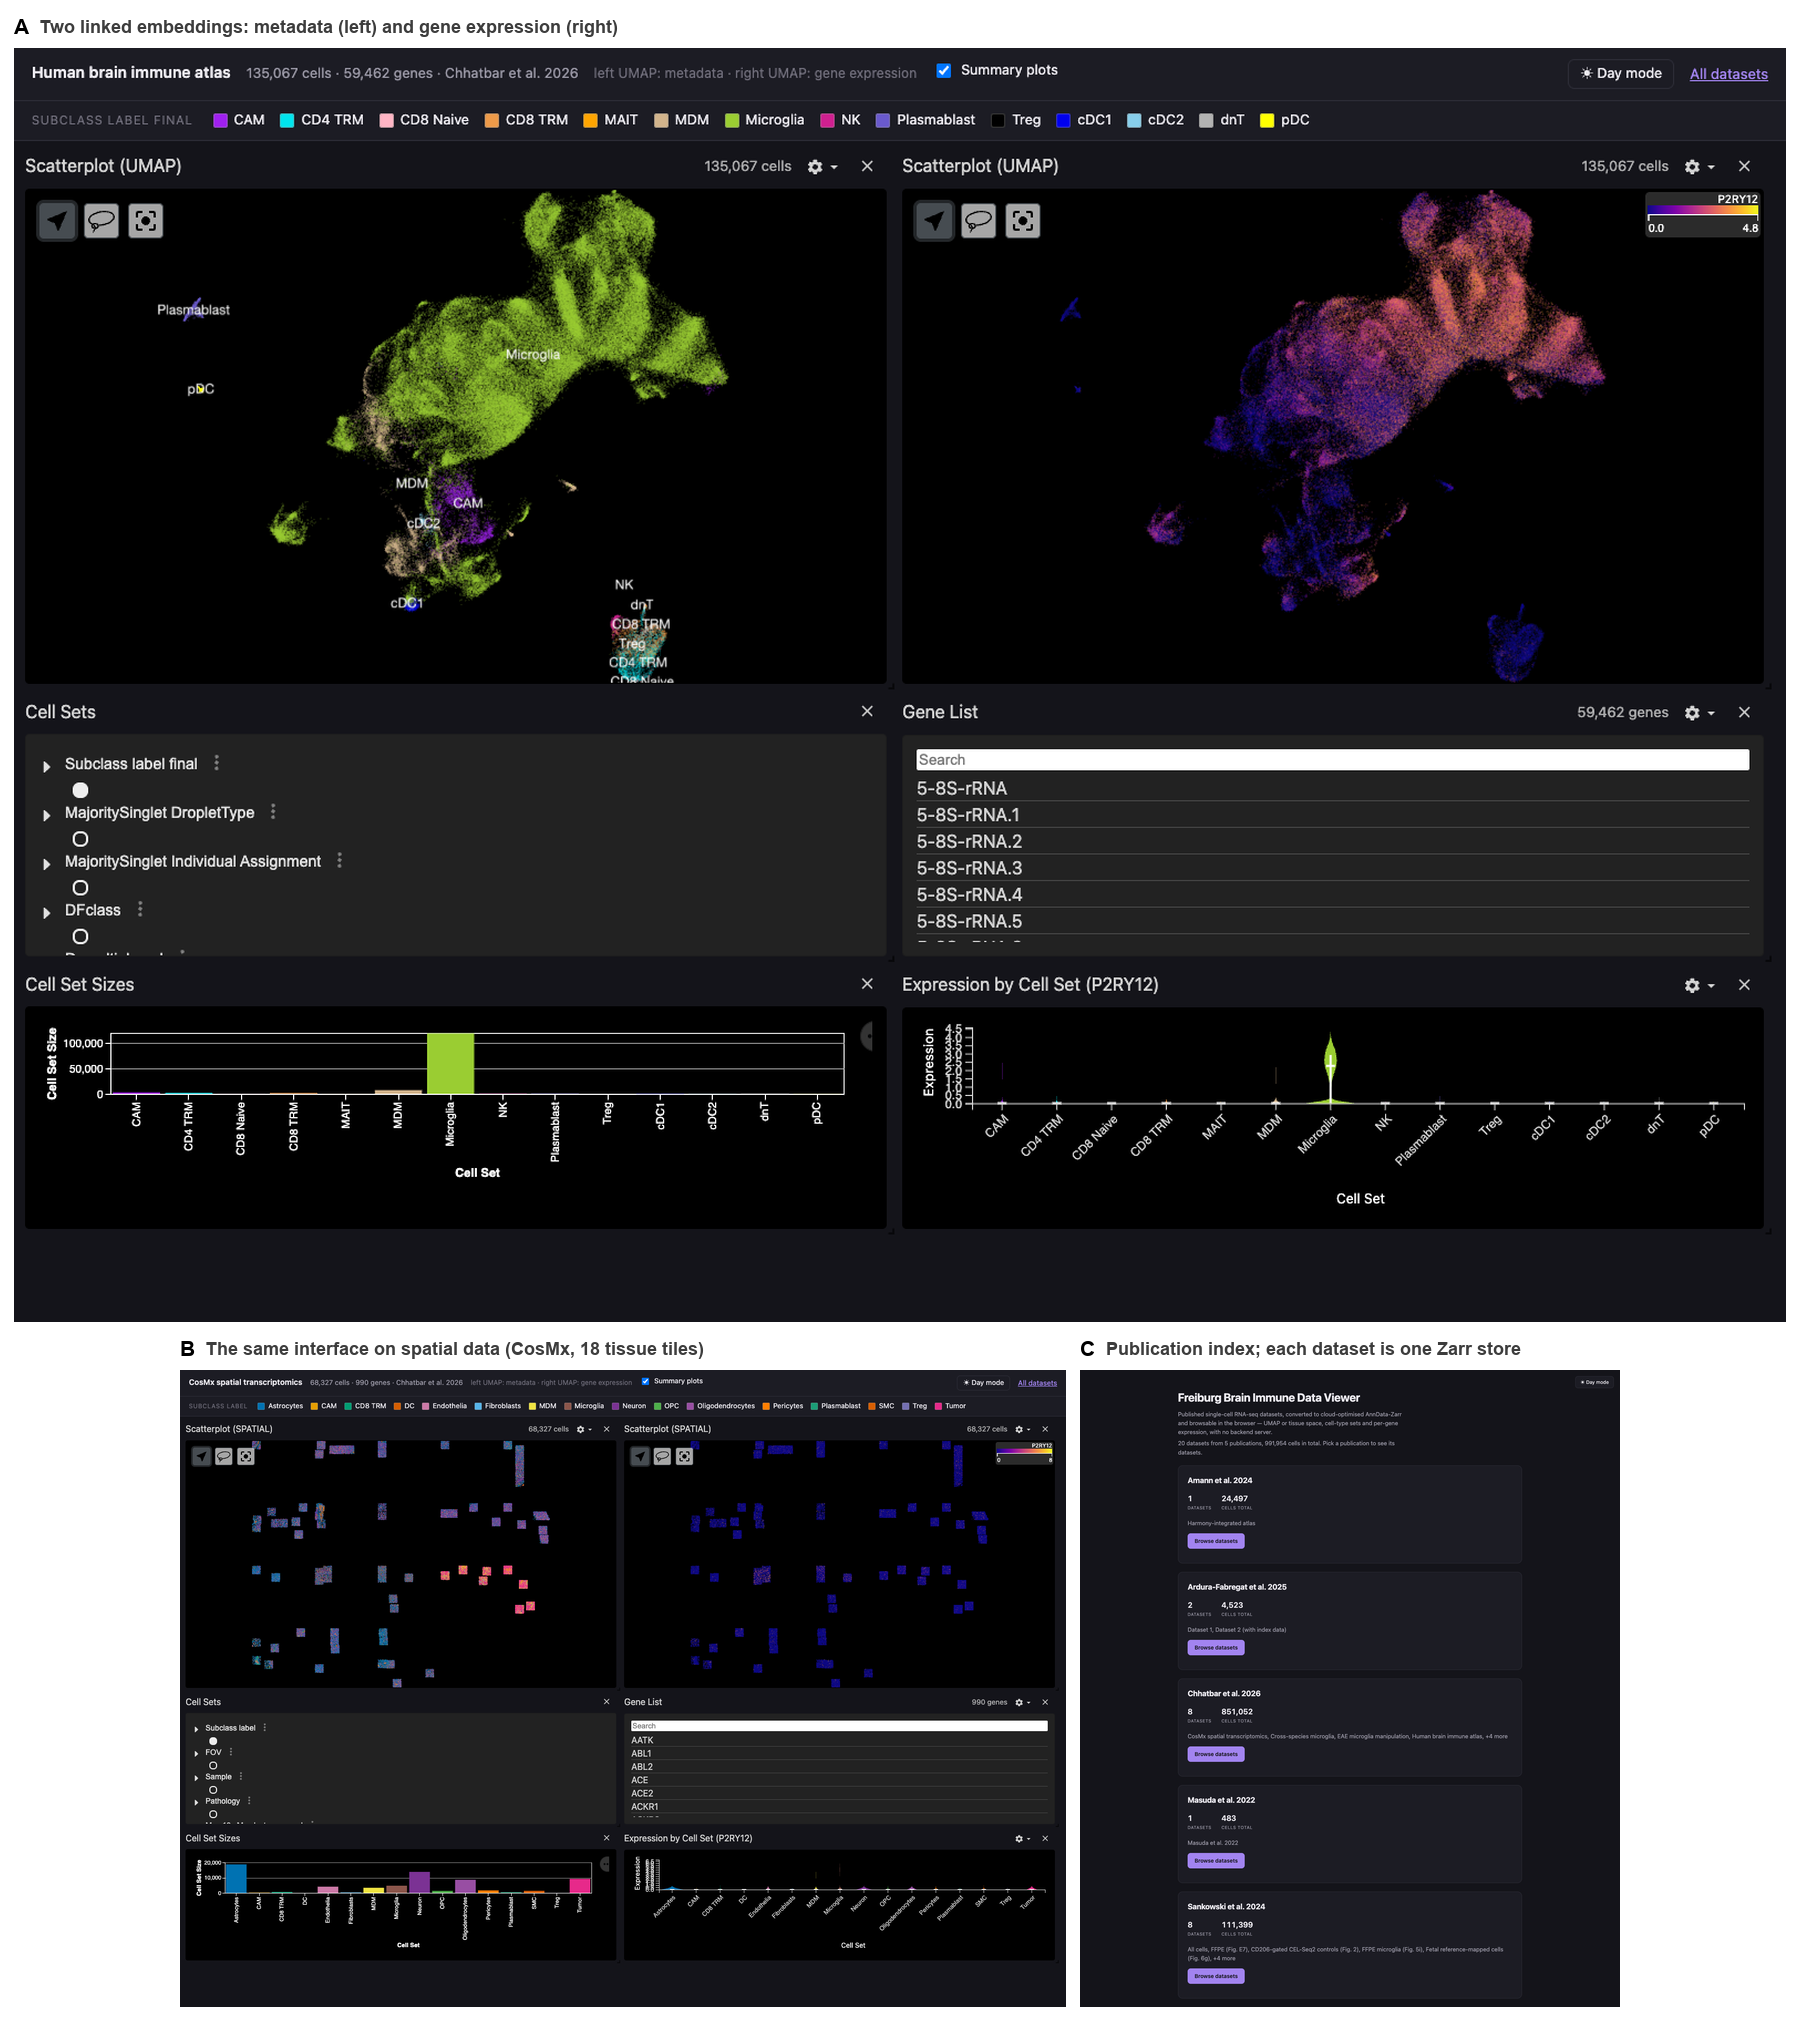
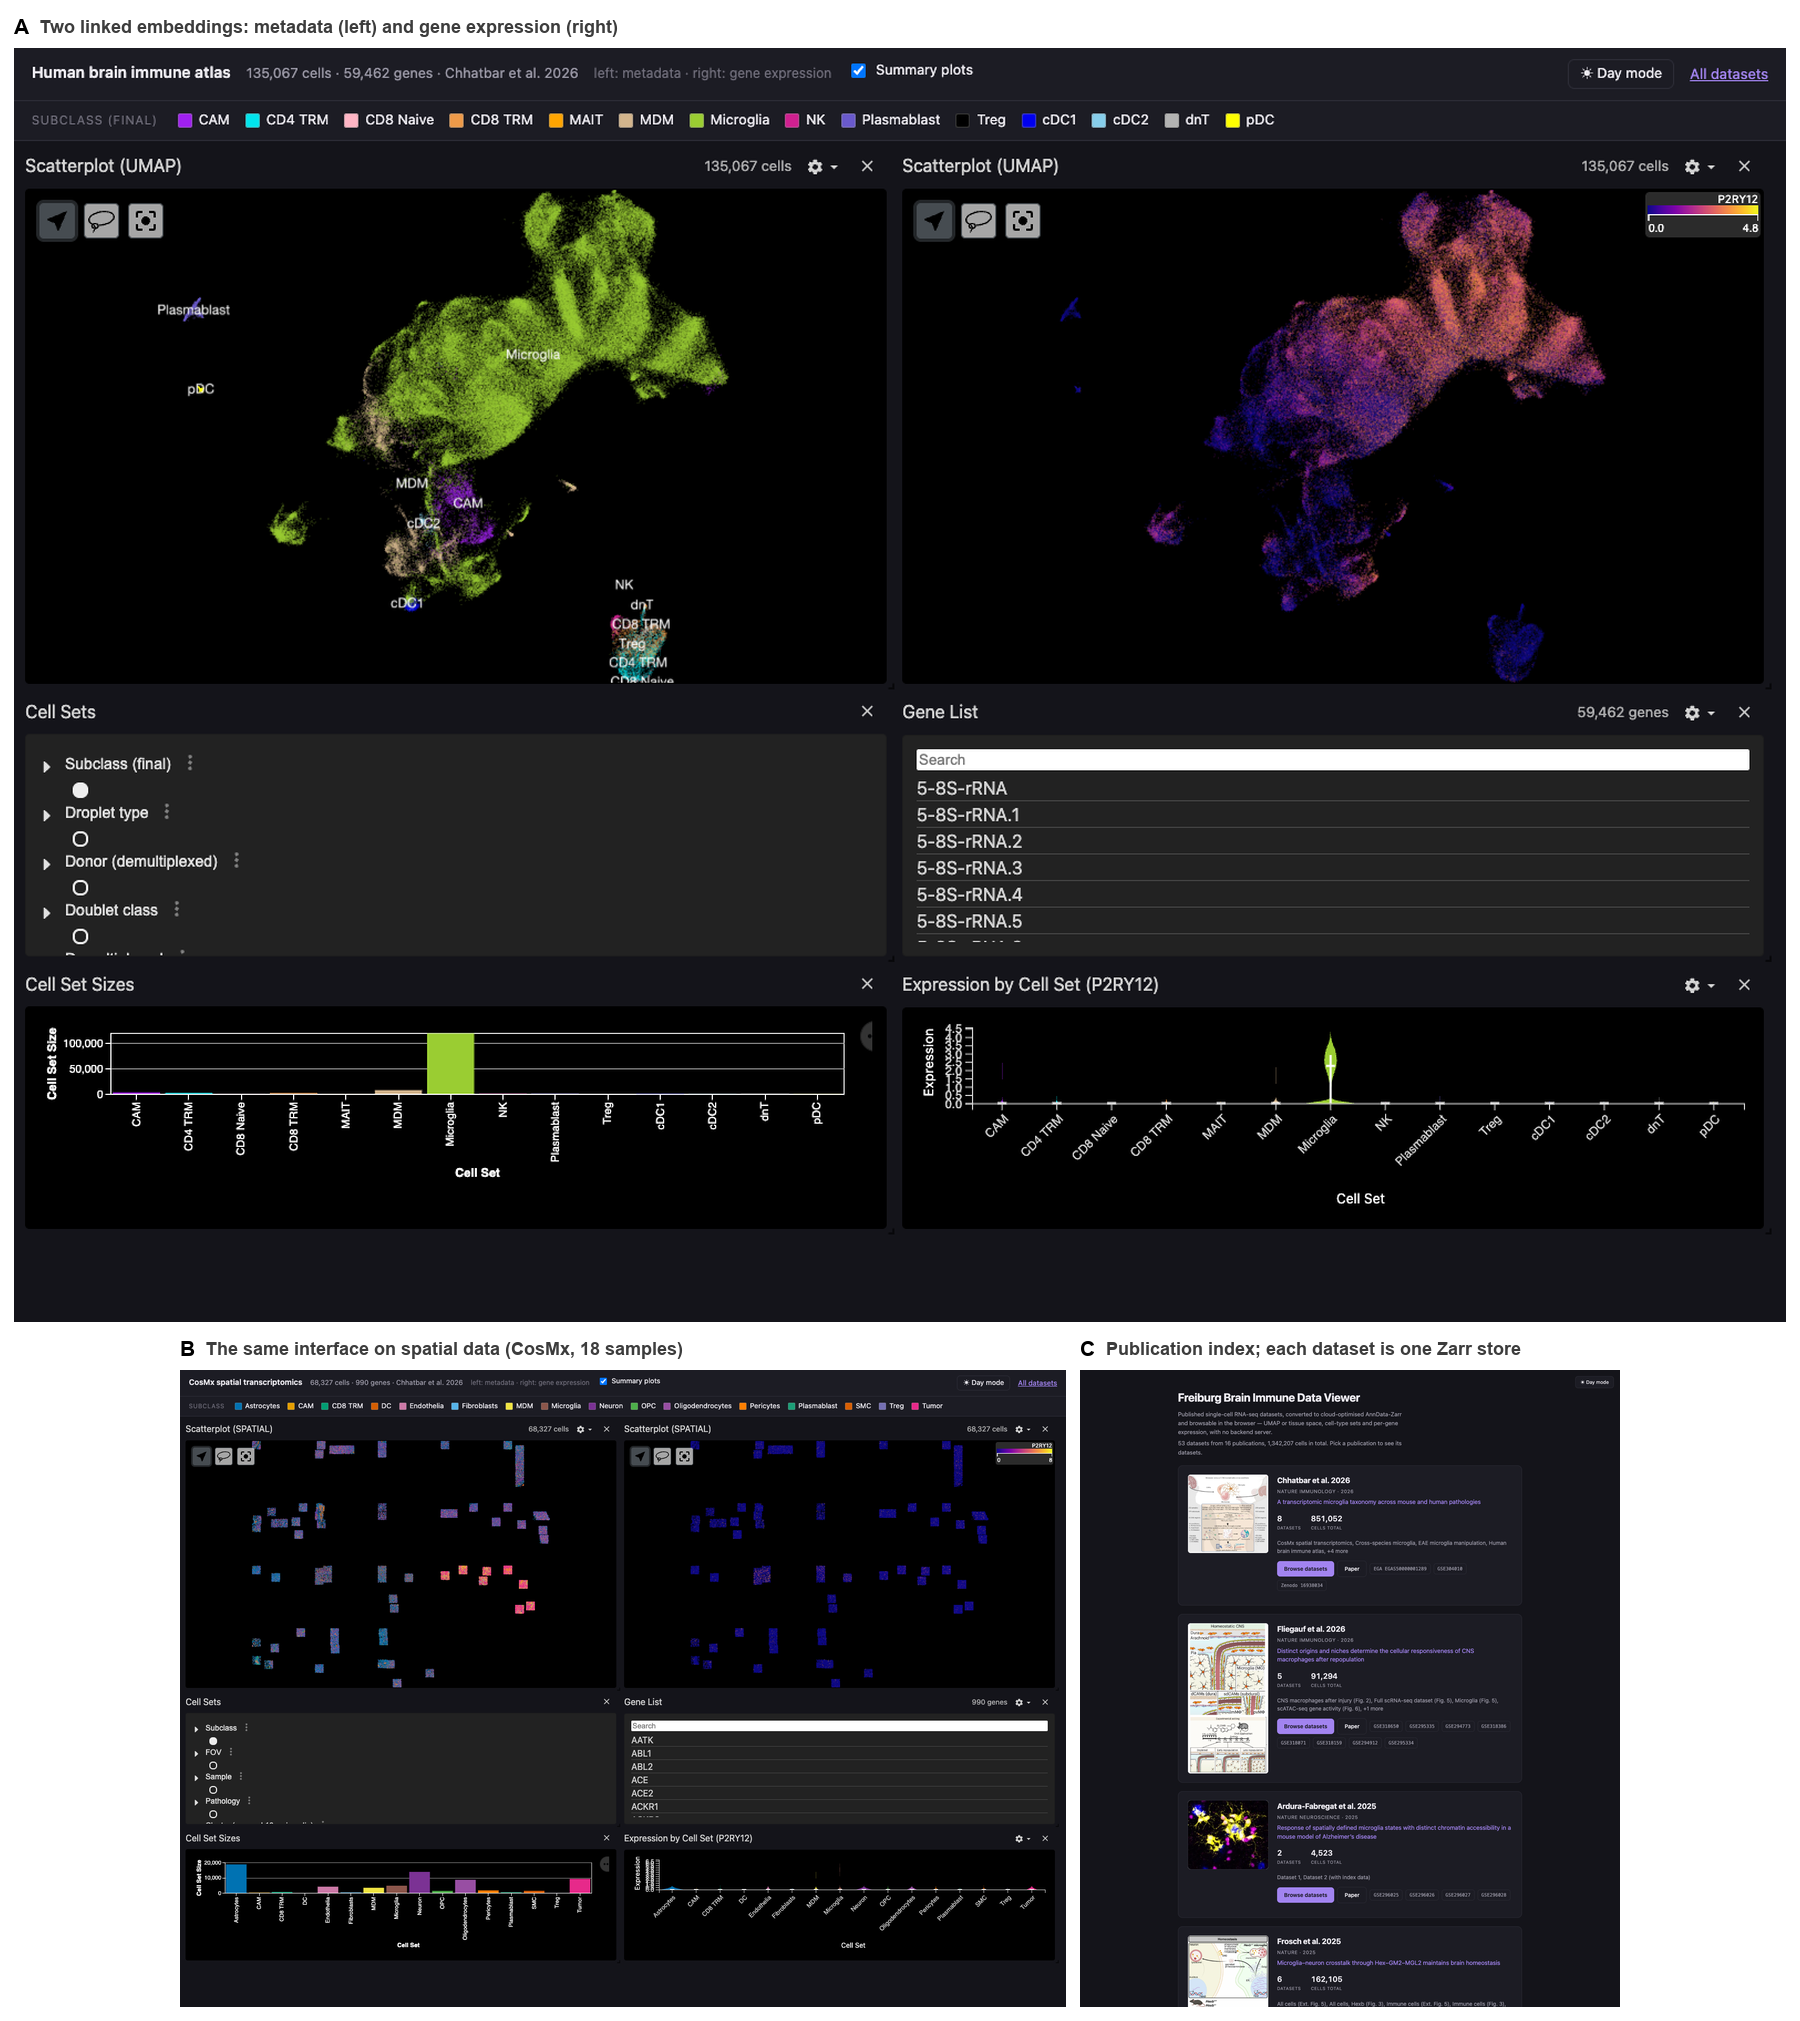
docs(paper): regenerate Figure 1 with harmonised metadata labels
Recapture viewer screenshots so the figure shows the harmonised labels
(e.g. Subclass (final), Donor (demultiplexed)). Pin the figure datasets
in capture_screenshots.sh: index.json order changed when publications
were added, which would have put Amann et al. 2024 in panel A instead
of the 135,067-cell atlas the caption describes. Caption now says the
CosMx view shows fields of view from 18 samples.

diff --git a/paper/overleaf/main.tex b/paper/overleaf/main.tex
@@ -110,8 +110,8 @@ and spatial datasets}
   expression on the right, with a legend built from the authors' own palette,
   cell-set and gene pickers, and per-cell-set summary plots beneath.
   (\textbf{B}) Spatially resolved data in the same interface: Nanostring CosMx,
-  with tissue coordinates supplied as an additional embedding; the 18 sample
-  tiles preserve within-sample geometry. Each dataset is a single AnnData-Zarr
+  with tissue coordinates supplied as an additional embedding; fields of view
+  from 18 samples are laid out side by side, preserving within-sample geometry. Each dataset is a single AnnData-Zarr
   store addressed by URL, served without an application server.}
   \label{fig:viewer}
 \end{figure*}

diff --git a/scripts/make_figure.py b/scripts/make_figure.py
@@ -23,7 +23,7 @@ ROOT = Path(__file__).resolve().parent.parent
 PANELS = {
     "web": [
         ("A", "viewer_night.png", "Two linked embeddings: metadata (left) and gene expression (right)"),
-        ("B", "shot_cosmx.png", "The same interface on spatial data (CosMx, 18 tissue tiles)"),
+        ("B", "shot_cosmx.png", "The same interface on spatial data (CosMx, 18 samples)"),
         ("C", "index_page.png", "Publication index; each dataset is one Zarr store"),
     ],
     "print": [

diff --git a/paper/application_note.md b/paper/application_note.md
@@ -198,8 +198,8 @@ _Details to be verified against the journal's reference style before submission.
 135,067-cell human brain immune atlas: coloured by cell type on the left, by
 *P2RY12* expression on the right, with a legend built from the authors' own
 palette and per-cell-set summary plots beneath. (**B**) The same interface on
-Nanostring CosMx data, with tissue coordinates as the embedding; the 18 sample
-tiles preserve within-sample geometry. (**C**) The publication index; each
+Nanostring CosMx data, with tissue coordinates as the embedding; fields of view
+from 18 samples are laid out side by side, preserving within-sample geometry. (**C**) The publication index; each
 dataset is a single AnnData-Zarr store addressed by URL.
 
 ## Supplementary Table S1
